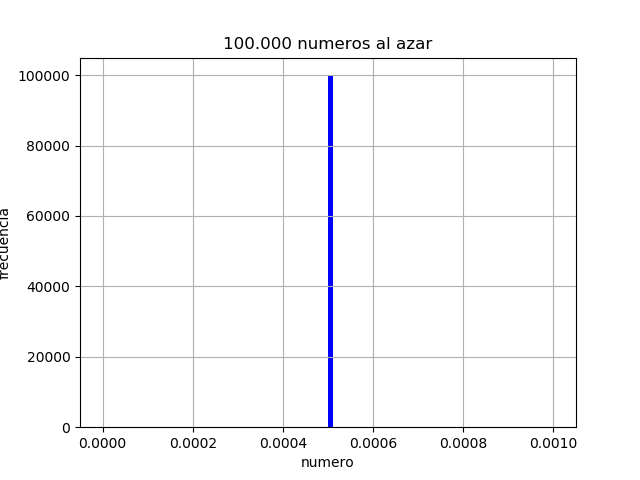
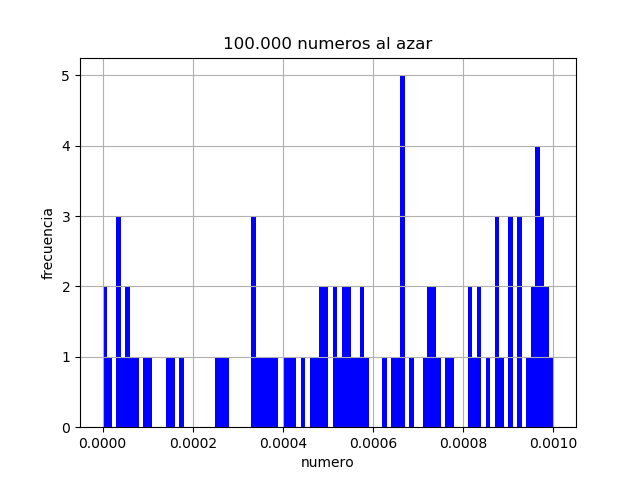
Corrijo error

diff --git a/src/ej2/ej2.py b/src/ej2/ej2.py
@@ -10,14 +10,10 @@ media=15
 list_exp=[ log(1-x)/(-1/media) for x in l_random_numbers]
 x_range=[]
 n,bins,batches=Histogram.plot_without_range(list_exp,100,"numero","frecuencia","100.000 numeros al azar","./ej2.png")
-print ("Histograma 1  ")
-for x in range(len(n)):
-	if(n[x]>=1):
-		print ("cantidad de ocurrencias: "+str(n[x])+" rango:"+str(bins[x]))
-x_range=[0.006,0.008]
-Histogram.plot(list_exp,100,x_range,"numero","frecuencia","100.000 numeros al azar","./ej2Zoom.png")
-x_range=[0.00760,0.00762]
-Histogram.plot(list_exp,100,x_range,"numero","frecuencia","100.000 numeros al azar","./ej2ZoomPlus.png")
+# print ("Histograma 1  ")
+# for x in range(len(n)):
+# 	if(n[x]>=1):
+# 		print ("cantidad de ocurrencias: "+str(n[x])+" rango:"+str(bins[x]))
 staticalHelper=StaticalHelper() 
 mean=staticalHelper.mean(list_exp)
 var= staticalHelper.variance(list_exp)

diff --git a/src/ej1/ej1.py b/src/ej1/ej1.py
@@ -12,11 +12,8 @@ l= glc.generate_n_uniform_random_numbers_padron(100000)
 bins=100
 x_range=[0,1]
 n,bins,batches=Histogram.plot(l,100,x_range,"numero","frecuencia","100.000 numeros al azar","./ej1.png")
-print ("Histograma 1  ")
-for x in range(len(n)):
-	if(n[x]>=1):
-		print ("cantidad de ocurrencias: "+str(n[x])+" rango:"+str(bins[x]))
-x_range=[0,0.001]
-Histogram.plot(l,100,x_range,"numero","frecuencia","100.000 numeros al azar","./ej1Zoom.png")
-x_range=[0.000512,0.000514]
-Histogram.plot(l,100,x_range,"numero","frecuencia","100.000 numeros al azar","./ej1ZoomPlus.png")
+# print ("Histograma 1  ")
+# for x in range(len(n)):
+# 	if(n[x]>=1):
+# 		print ("cantidad de ocurrencias: "+str(n[x])+" rango:"+str(bins[x]))
+

diff --git a/src/GLC.py b/src/GLC.py
@@ -39,8 +39,8 @@ class  GeneradorCongruencialLineal(object) :
 	
 	def _generate_n_uniform_random_numbers(self,seed,n,number_list):
 		for x in range(0,n):
-			new_number= ((self.multiplier*seed+self.increment)%self.module)/self.module
-			number_list.append(new_number)
+			new_number= self.generate_random(seed)
+			number_list.append(new_number/self.module)
 			seed=new_number
 		return number_list
 
